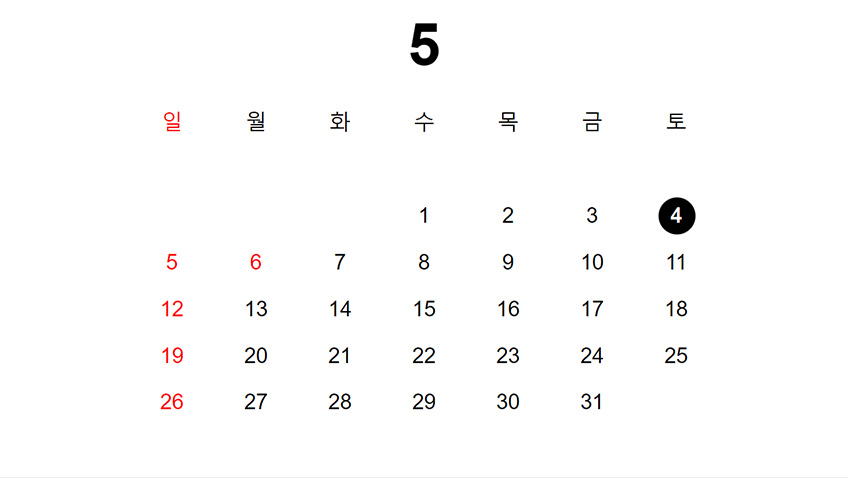
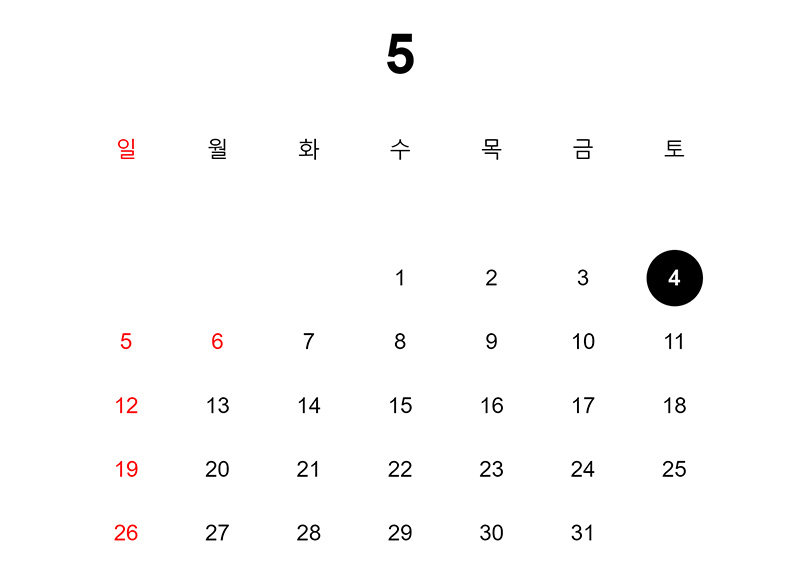
feature: Update invitation letter and calendar

diff --git a/index.html b/index.html
@@ -197,11 +197,11 @@
 
                 </p>
                 <p>
-                    <img src="img/invitation_letter_1.png" height="82" width="848"/>
+                    <img src="img/invitation_letter_1_take3.png" height="68" width="848" style="padding-top: 30px; padding-bottom: 30px"/>
                 </p>
                 <hr>
                 <p>
-                    <img src="img/invitation_letter_2.png" height="94" width="848"/>
+                    <img src="img/invitation_letter_2_take3.png" height="140" width="848" style="padding-top: 30px; padding-bottom: 30px"/>
                 </p>
                 <br>
                 <br>
@@ -236,7 +236,9 @@
                 <br>
                 <br>
                 <h2>좋은 날, 좋은 순간</h2>
-                <img class="blur" src="img/calendar.jpg" height="478" width="848"/>
+                <br>
+                <div style="text-align: center;"><img src="img/calendar.jpg" height="578" width="800"/></div>
+                <br>
                 <br>
                 <br>
                 <p>
